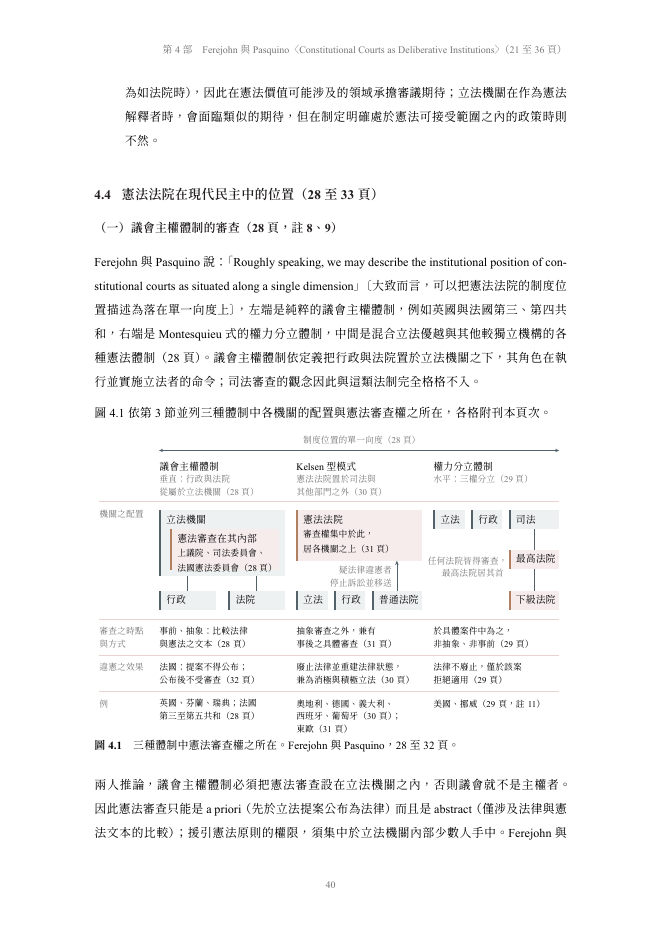
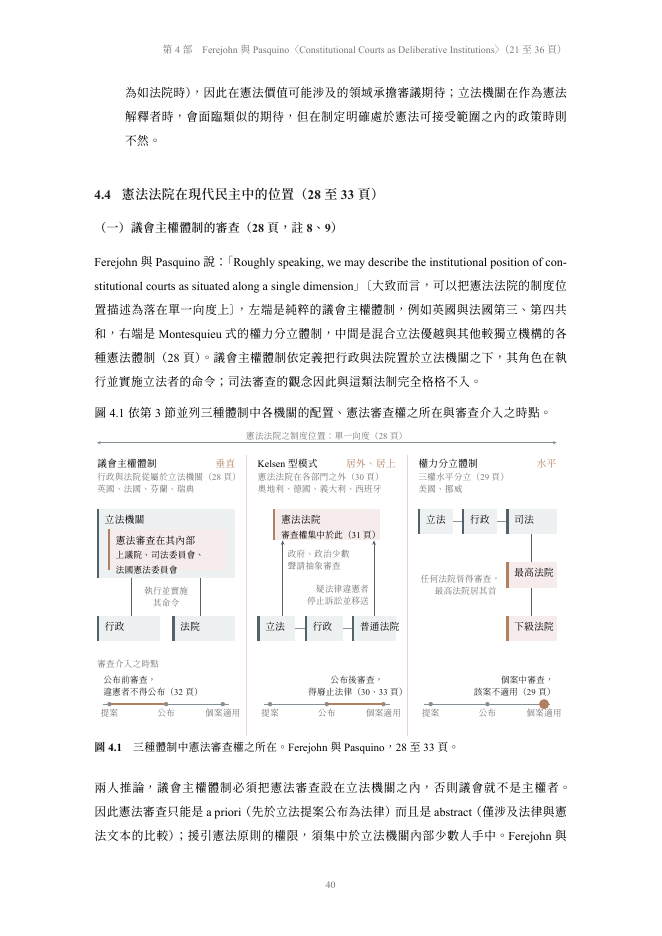
W09 預習圖 4.1 重畫：三欄放大以位置表示垂直、居外居上、水平；下半文字表改為共用時間軸標審查介入之時點

Changed region(s): [[0.1511, 0.4338, 0.8459, 0.8056], [0.1511, 0.8365, 0.8761, 0.8985], [0.8157, 0.4647, 0.8459, 0.4957]]

diff --git a/1151/seminar/導讀/W09_預習/figures/placement.tex b/1151/seminar/導讀/W09_預習/figures/placement.tex
@@ -1,74 +1,91 @@
-% Ferejohn 與 Pasquino 第 3 節（28 至 32 頁）：三種體制中憲法審查權之所在。
+% Ferejohn 與 Pasquino 第 3 節（28 至 33 頁）：三種體制中憲法審查權之所在與審查介入之時點。
 % 欄序依兩人所說的單一向度，左端議會主權、右端權力分立（28 頁）；Kelsen 型居中係依 30 頁「departed from the
-% hierarchical parliamentary model」之描述排列。垂直、水平二詞出自 29 頁「separated horizontally rather than vertically」。
-% 色調：審查權所在之機關 accent（terracotta），其餘機關 slate；卡片淡底加左側色條（skill diagram-design「動手前」第 2 條）。
-% 各格文字逐一回刊本核過頁次（2026-11-09）。
+% hierarchical parliamentary model」排列。垂直、水平二詞出自 29 頁「separated horizontally rather than vertically」；
+% Kelsen 型法院「outside the judiciary as well as the other governmental departments」（30 頁）、「above each of the
+% other institutions」（31 頁）。下列時間軸：議會主權之審查在公布前（28 頁 a priori；32 頁法國）；Kelsen 型之抽象審查
+% 不能阻止法律生效（33 頁），另有個案移送（31 頁）；權力分立在具體案件中（29 頁）。
+% 色調：審查權所在之機關與審查介入之時點用 accent（terracotta），其餘 slate；卡片淡底加左側色條。
+% 2026-11-09 第一版（下半三列文字表）站主「不夠優秀」，改為本版。
 \definecolor{figRev}{HTML}{B08060}\definecolor{figRevbg}{HTML}{F5ECEB}
 \definecolor{figLine}{HTML}{E8D3D1}
 % 卡片：\placecard{色}{左}{上}{右}{下}{內容}
 \providecommand{\placecard}[6]{%
   \fill[#1bg] (#2,#3) rectangle (#4,#5);
-  \fill[#1] (#2,#3) rectangle ($(#2,#5)+(0.6,0)$);
-  \node[t] at ($(#2,#3)+(2.2,-1.4)$) {#6};}
+  \fill[#1] (#2,#3) rectangle ($(#2,#5)+(0.7,0)$);
+  \node[t] at ($(#2,#3)+(2.4,-1.9)$) {#6};}
 \begin{tikzpicture}[qa,x=1mm,y=1mm,
     t/.style={anchor=north west,inner sep=0pt,align=left,execute at begin node={\raggedright\setstretch{1.2}}},
-    cell/.style={t,font=\scriptsize,text width=40mm},
-    rowlbl/.style={t,font=\scriptsize,text=dimink,text width=17mm},
-    link/.style={figGray,line width=0.5pt},
-    arr2/.style={figGray,line width=0.6pt,-{Stealth[length=4pt,width=3.2pt]}}]
+    note/.style={font=\scriptsize,text=dimink,inner sep=0pt,align=center,execute at begin node={\setstretch{1.15}}},
+    link/.style={figGray,line width=0.6pt},
+    up/.style={figGray,line width=0.6pt,-{Stealth[length=4pt,width=3.2pt]}},
+    axis/.style={figGray!70,line width=0.5pt}]
   % 單一向度
-  \draw[figGray,line width=0.5pt,{Stealth[length=3.5pt,width=3pt]}-{Stealth[length=3.5pt,width=3pt]}] (19,6) -- (146,6);
-  \node[font=\scriptsize,text=dimink,anchor=south] at (82.5,6.6) {制度位置的單一向度（28 頁）};
+  \draw[figGray!70,line width=0.5pt,{Stealth[length=3.5pt,width=3pt]}-{Stealth[length=3.5pt,width=3pt]}] (0,9) -- (146,9);
+  \node[note,anchor=south] at (73,9.7) {憲法法院之制度位置：單一向度（28 頁）};
+  % 欄間淡線
+  \foreach \x in {47.5,98.5}{\draw[figLine,line width=0.4pt] (\x,5) -- (\x,-84);}
   % 欄頭
-  \foreach \x/\h/\s in {
-      19/議會主權體制/{垂直：行政與法院\\從屬於立法機關（28 頁）},
-      62.5/{Kelsen 型模式}/{憲法法院置於司法與\\其他部門之外（30 頁）},
-      106/權力分立體制/{水平：三權分立（29 頁）}}{
-    \node[t,font=\footnotesize] at (\x,2.5) {\h};
-    \node[t,font=\scriptsize,text=dimink] at (\x,-1.8) {\s};
+  \foreach \x/\h/\g/\s/\e in {
+      0/議會主權體制/垂直/{行政與法院從屬於立法機關（28 頁）}/{英國、法國、芬蘭、瑞典},
+      51/{Kelsen 型模式}/{居外、居上}/{憲法法院在各部門之外（30 頁）}/{奧地利、德國、義大利、西班牙},
+      102/權力分立體制/水平/{三權水平分立（29 頁）}/{美國、挪威}}{
+    \node[t,font=\footnotesize] at (\x,4) {\h};
+    \node[font=\footnotesize,text=figRev,anchor=north east,inner sep=0pt] at (\x+44,4) {\g};
+    \node[t,font=\scriptsize,text=dimink] at (\x,-0.6) {\s};
+    \node[t,font=\scriptsize,text=dimink] at (\x,-4.4) {\e};
   }
-  % 列名與列間淡線
-  \node[rowlbl] at (0,-13) {機關之配置};
-  \node[rowlbl] at (0,-50) {審查之時點\\與方式};
-  \node[rowlbl] at (0,-61.5) {違憲之效果};
-  \node[rowlbl] at (0,-73) {例};
-  \foreach \y in {-10,-47.5,-59,-70.5}{\draw[figLine,line width=0.4pt] (0,\y) -- (146,\y);}
-  % 議會主權：審查在立法機關內部，行政與法院居其下
-  \begin{scope}[shift={(19,0)}]
-    \placecard{figGray}{0}{-13}{40}{-34}{立法機關}
-    \placecard{figRev}{3.5}{-19}{38}{-32}{憲法審查在其內部\\{\scriptsize 上議院、司法委員會、}\\{\scriptsize 法國憲法委員會（28 頁）}}
-    \placecard{figGray}{0}{-38.5}{18}{-44.5}{行政}
-    \placecard{figGray}{22}{-38.5}{40}{-44.5}{法院}
-    \draw[link] (9,-34) -- (9,-38.5);
-    \draw[link] (31,-34) -- (31,-38.5);
+  % 議會主權：審查在立法機關內部；行政與法院居其下
+  \begin{scope}[shift={(0,0)}]
+    \placecard{figGray}{0}{-12}{44}{-34}{立法機關}
+    \placecard{figRev}{3.5}{-18.5}{41}{-31.5}{憲法審查在其內部\\{\scriptsize 上議院、司法委員會、}\\{\scriptsize 法國憲法委員會}}
+    \draw[link] (11,-34) -- (11,-46);
+    \draw[link] (33,-34) -- (33,-46);
+    \node[note] at (22,-40) {執行並實施\\其命令};
+    \placecard{figGray}{0}{-46}{20}{-54}{行政}
+    \placecard{figGray}{24}{-46}{44}{-54}{法院}
   \end{scope}
-  % Kelsen 型：憲法法院居各部門之外、之上；普通法院停止訴訟並移送
-  \begin{scope}[shift={(62.5,0)}]
-    \placecard{figRev}{0}{-13}{40}{-29}{憲法法院\\{\scriptsize 審查權集中於此，}\\{\scriptsize 居各機關之上（31 頁）}}
-    \placecard{figGray}{0}{-38.5}{10}{-44.5}{立法}
-    \placecard{figGray}{12}{-38.5}{22}{-44.5}{行政}
-    \placecard{figGray}{24}{-38.5}{40}{-44.5}{普通法院}
-    \draw[arr2] (32,-38.5) -- (32,-29);
-    \node[t,font=\scriptsize,text=dimink,anchor=north east,align=right] at (30.5,-30.6) {疑法律違憲者\\停止訴訟並移送};
+  % Kelsen 型：憲法法院在三權之外、之上
+  \begin{scope}[shift={(51,0)}]
+    \placecard{figRev}{5}{-12}{39}{-22}{憲法法院\\{\scriptsize 審查權集中於此（31 頁）}}
+    \draw[figGray!70,line width=0.6pt] (0,-50) -- (44,-50);
+    \placecard{figGray}{0}{-46}{12}{-54}{立法}
+    \placecard{figGray}{15}{-46}{27}{-54}{行政}
+    \placecard{figGray}{30}{-46}{44}{-54}{普通法院}
+    \draw[up] (8,-46) -- (8,-22);
+    \draw[up] (37,-46) -- (37,-22);
+    \node[note,anchor=north west,align=left] at (9.5,-25) {政府、政治少數\\聲請抽象審查};
+    \node[note,anchor=north east,align=right] at (35.5,-36) {疑法律違憲者\\停止訴訟並移送};
   \end{scope}
-  % 權力分立：三權並列，審查權散布於各級法院
-  \begin{scope}[shift={(106,0)}]
-    \placecard{figGray}{0}{-13}{10}{-19}{立法}
-    \placecard{figGray}{12}{-13}{22}{-19}{行政}
-    \placecard{figGray}{24}{-13}{40}{-19}{司法}
-    \placecard{figRev}{24}{-25.5}{40}{-31.5}{最高法院}
-    \placecard{figRev}{24}{-38.5}{40}{-44.5}{下級法院}
-    \draw[link] (32,-19) -- (32,-25.5);
-    \draw[link] (32,-31.5) -- (32,-38.5);
-    \node[t,font=\scriptsize,text=dimink,anchor=north east,align=right] at (22.5,-27.6) {任何法院皆得審查，\\最高法院居其首};
+  % 權力分立：三權並列；審查權散布於各級法院
+  \begin{scope}[shift={(102,0)}]
+    \draw[figGray!70,line width=0.6pt] (0,-16) -- (44,-16);
+    \placecard{figGray}{0}{-12}{11}{-20}{立法}
+    \placecard{figGray}{14}{-12}{25}{-20}{行政}
+    \placecard{figGray}{28}{-12}{44}{-20}{司法}
+    \draw[link] (36,-20) -- (36,-29);
+    \placecard{figRev}{28}{-29}{44}{-37}{最高法院}
+    \draw[link] (36,-37) -- (36,-46);
+    \placecard{figRev}{28}{-46}{44}{-54}{下級法院}
+    \node[note,anchor=north east,align=right] at (25,-33) {任何法院皆得審查，\\最高法院居其首};
   \end{scope}
-  % 各列內容
-  \foreach \x/\a/\b/\c in {
-      19/{事前、抽象：比較法律\\與憲法之文本（28 頁）}/{法國：提案不得公布；\\公布後不受審查（32 頁）}/{英國、芬蘭、瑞典；法國\\第三至第五共和（28 頁）},
-      62.5/{抽象審查之外，兼有\\事後之具體審查（31 頁）}/{廢止法律並重建法律狀態，\\兼為消極與積極立法（30 頁）}/{奧地利、德國、義大利、\\西班牙、葡萄牙（30 頁）；\\東歐（31 頁）},
-      106/{於具體案件中為之，\\非抽象、非事前（29 頁）}/{法律不廢止，僅於該案\\拒絕適用（29 頁）}/{美國、挪威（29 頁，註 11）}}{
-    \node[cell] at (\x,-50) {\a};
-    \node[cell] at (\x,-61.5) {\b};
-    \node[cell] at (\x,-73) {\c};
+  % 審查介入之時點：三欄共用同一條軸
+  \node[t,font=\scriptsize,text=dimink] at (0,-60) {審查介入之時點};
+  \foreach \x in {0,51,102}{
+    \begin{scope}[shift={(\x,0)}]
+      \draw[axis] (2,-74) -- (42,-74);
+      \foreach \p/\l in {4/提案,22/公布,40/個案適用}{
+        \fill[figGray!70] (\p,-74) circle (0.7);
+        \node[note,anchor=north] at (\p,-75.6) {\l};
+      }
+    \end{scope}
   }
+  % 議會主權：公布前
+  \draw[figRev,line width=2.2pt] (4,-74) -- (22,-74);
+  \node[note,anchor=south west,align=left,text=caseink] at (2,-71.5) {公布前審查，\\違憲者不得公布（32 頁）};
+  % Kelsen 型：公布後，抽象與個案移送
+  \draw[figRev,line width=2.2pt] (73,-74) -- (91,-74);
+  \node[note,anchor=south,text=caseink] at (82,-71.5) {公布後審查，\\得廢止法律（30、33 頁）};
+  % 權力分立：個案中
+  \fill[figRev] (142,-74) circle (1.6);
+  \node[note,anchor=south east,align=right,text=caseink] at (144,-71.5) {個案中審查，\\該案不適用（29 頁）};
 \end{tikzpicture}

diff --git a/1151/seminar/導讀/W09_預習/Teile/40_FP.tex b/1151/seminar/導讀/W09_預習/Teile/40_FP.tex
@@ -150,9 +150,9 @@ Ferejohn\ix{persons}{ferejohn@Ferejohn, John} 與 Pasquino\ix{persons}{pasquino@
 
 Ferejohn\ix{persons}{ferejohn@Ferejohn, John} 與 Pasquino\ix{persons}{pasquino@Pasquino, Pasquale} 說：「Roughly speaking, we may describe the institutional position of constitutional courts as situated along a single dimension」〔大致而言，可以把憲法法院的制度位置描述為落在單一向度上〕，左端是純粹的議會主權\ix{terms}{06@\zhlidxcat{審查制度之類型}!議會主權體制}體制，例如英國與法國第三、第四共和，右端是 Montesquieu\ix{persons}{montesquieu@Montesquieu（孟德斯鳩）} 式的權力分立\ix{terms}{06@\zhlidxcat{審查制度之類型}!權力分立體制}體制，中間是混合立法優越與其他較獨立機構的各種憲法體制\pg{28 頁}。議會主權體制依定義把行政與法院置於立法機關之下，其角色在執行並實施立法者的命令；司法審查\ix{terms}{01@\zhlidxcat{司法審查權限之歸屬}!司法審查}的觀念因此與這類法制完全格格不入。
 
-圖~\ref{fig:FP-placement} 依第 3 節並列三種體制中各機關的配置與憲法審查權之所在，各格附刊本頁次。
+圖~\ref{fig:FP-placement} 依第 3 節並列三種體制中各機關的配置、憲法審查權之所在與審查介入之時點。
 
-\begin{qafigure}[三種體制中憲法審查權之所在]{三種體制中憲法審查權之所在。Ferejohn 與 Pasquino，28 至 32 頁。\label{fig:FP-placement}}
+\begin{qafigure}[三種體制中憲法審查權之所在]{三種體制中憲法審查權之所在。Ferejohn 與 Pasquino，28 至 33 頁。\label{fig:FP-placement}}
 \input{figures/placement}
 \end{qafigure}
 
